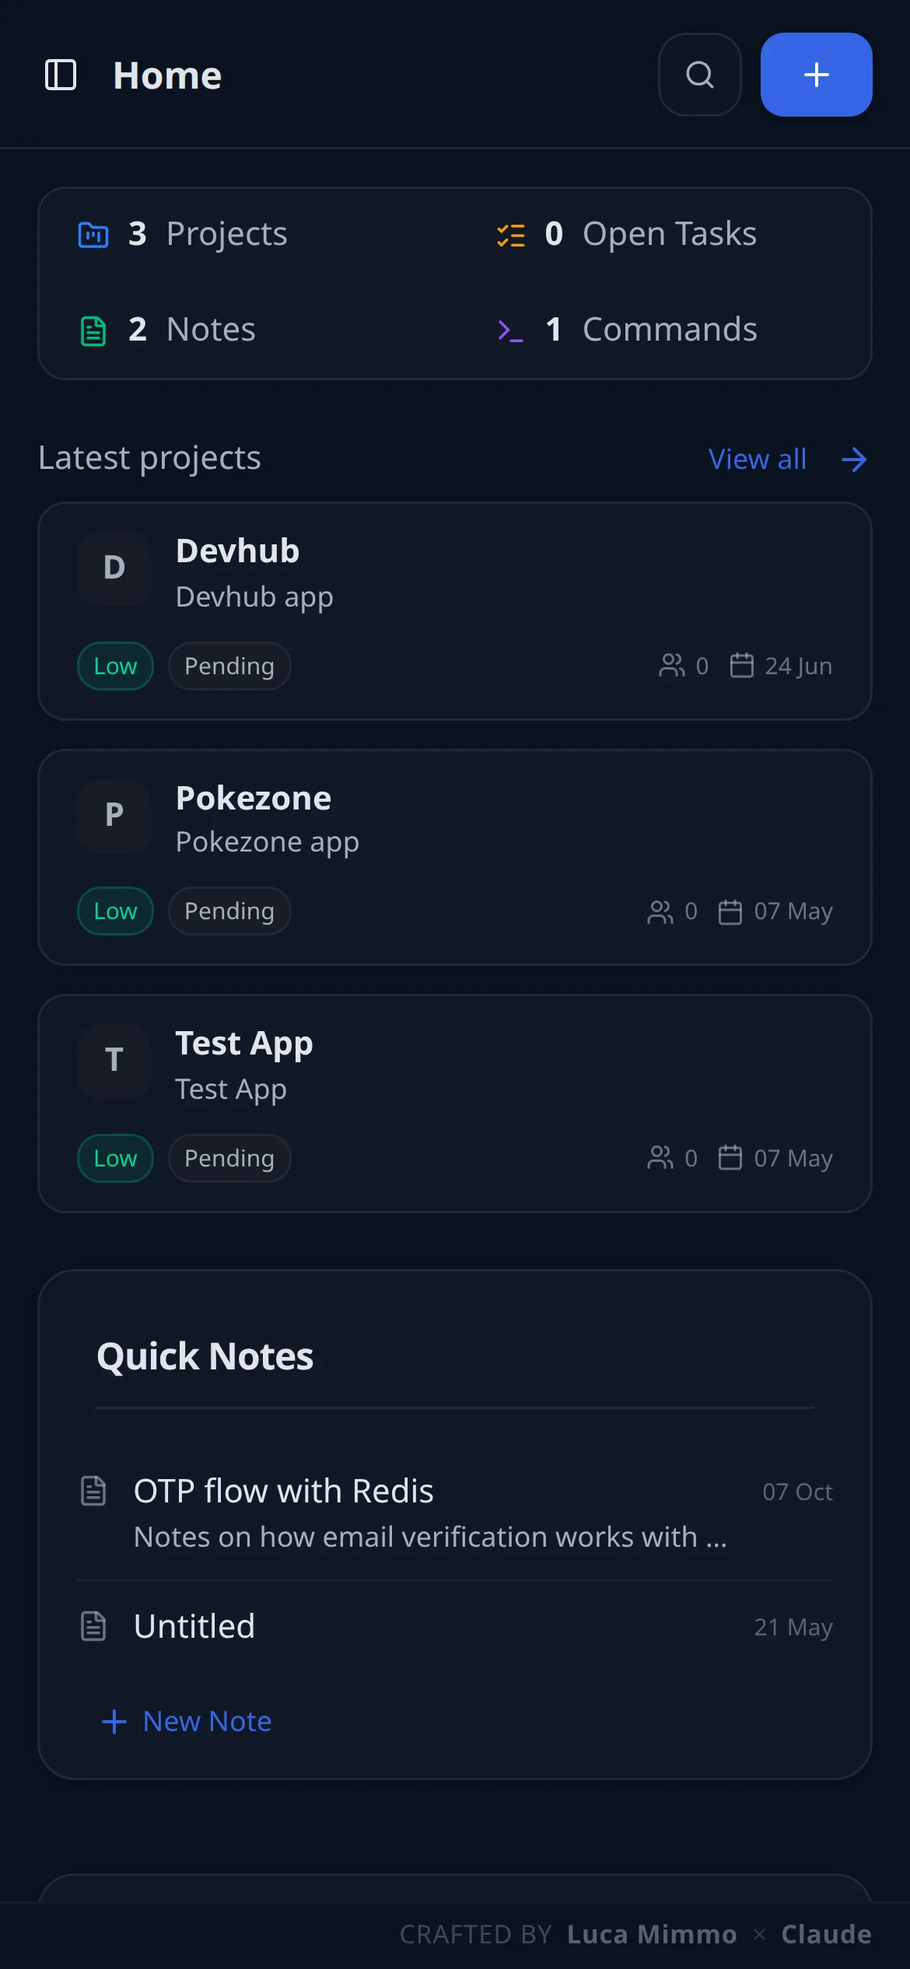
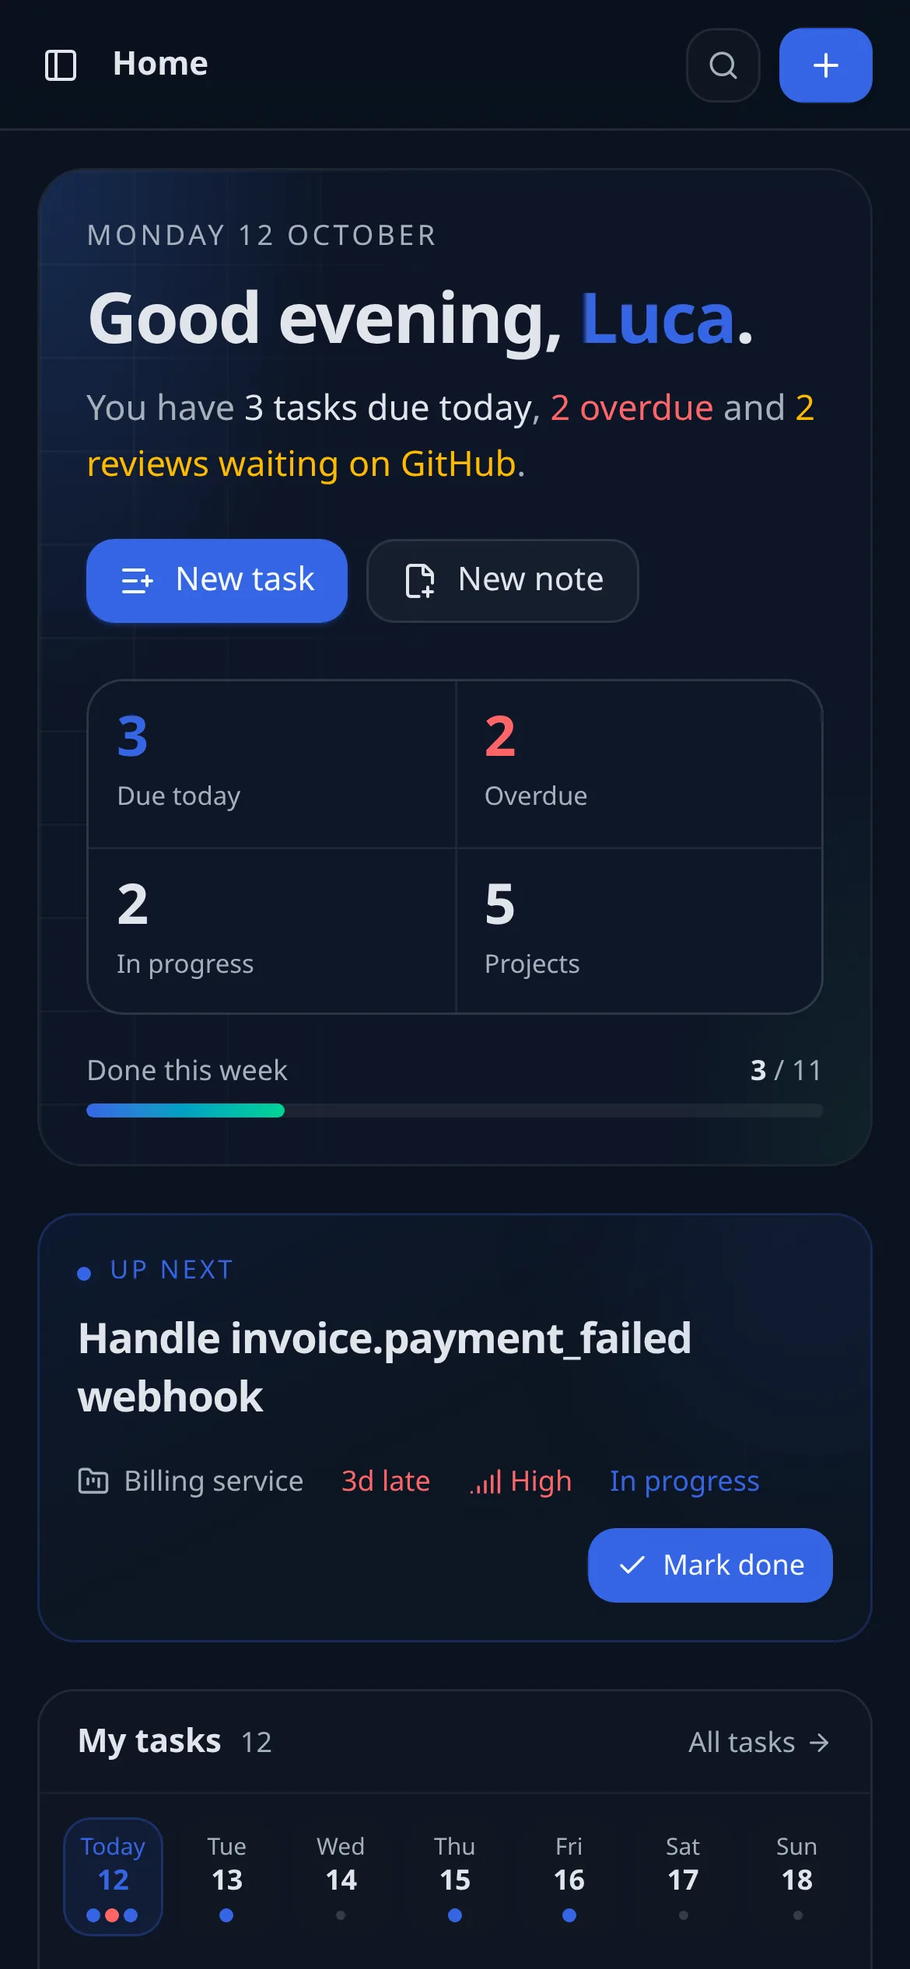
chore(devhub): refresh case study screenshots and copy
- New screenshots of the redesigned UI (mock data): home, note editor,
  command palette, tablet/mobile, plus GitHub overview, repository page,
  projects list, project detail and sign-up
- Gallery reordered around the new features
- Copy (EN + IT): today-first home, GitHub integration with review inbox,
  projects health/overview, rebuilt sign-in; backend details corrected
  (OTP codes in PostgreSQL, rotating refresh cookie; Redis no longer used)
- Cover and OG stat strip mirror the new home summary

diff --git a/lib/translations.ts b/lib/translations.ts
@@ -38,27 +38,32 @@ export const translations = {
     projects: {
       devhub: {
         status: "In Progress",
-        desc: "Full-stack developer dashboard: projects, tasks, markdown notes, CLI snippets, command palette. React 19 + Vite frontend, Quarkus REST API, PostgreSQL, Redis.",
-        overview: "DevHub is my personal developer dashboard: projects, tasks, markdown notes and the CLI commands I use every day, all in one place. The frontend is React 19 + Vite on Vercel; the backend is a Quarkus 3 REST API on Java 21 with PostgreSQL, Redis and JWT authentication.",
-        context: "I've always wanted a personal dashboard to keep my software projects under control. DevHub started from that need and became my training ground for going deeper into React. This is the second version, rewritten from scratch.",
+        desc: "Full-stack developer dashboard: today's tasks, projects, markdown notes, CLI snippets and a GitHub integration with a review inbox. React 19 + TypeScript frontend, Quarkus REST API, PostgreSQL.",
+        overview: "DevHub is my personal developer dashboard: projects, tasks, markdown notes, the CLI commands I use every day and my GitHub activity, all in one place. The home page is built around today's work: what's due, what's late and which pull requests are waiting for my review. The frontend is React 19 + TypeScript with Vite, Tailwind and TanStack Query, deployed on Vercel; the backend is a Quarkus 3 REST API on Java 21 with PostgreSQL, JWT authentication and the GitHub REST and GraphQL APIs.",
+        context: "I've always wanted a personal dashboard to keep my software projects under control. DevHub started from that need and became my training ground for going deeper into React. This is the second version, rewritten from scratch, and it keeps growing: the latest round added the GitHub integration and redesigned the home page, the projects page and the sign-in flow.",
         role: "Solo project: I built everything, from API design and the UI to deploying frontend and backend.",
         story: [
-          { title: "OTP codes with Redis", body: "The hardest part. Sign-up and password reset go through a one-time code sent by email. I used Redis as a temporary store: each OTP is saved with the email as its key and a 5-minute expiry, so a new code replaces the previous one and old codes disappear on their own: no extra tables, no cleanup jobs. It forced me to really understand how a key-value cache works and to handle the edge cases: expired codes, resends, different emails." },
-          { title: "Secure sessions with JWT", body: "RS256-signed access and refresh tokens travel in HttpOnly cookies, out of reach of JavaScript. The refresh token rotates on every renewal and is stored in PostgreSQL, and a nightly scheduled job deletes expired ones. On the frontend, an Axios interceptor catches 401 responses and sends the user back to login when the session is no longer valid." },
-          { title: "A backend organised by domain", body: "The Quarkus code is split by domain (auth, projects, tasks, notes, commands, users), each with its own controllers, DTOs and services, plus a shared layer for base entities, enums and centralised error handling. Adding a new resource means adding a module, not touching everything else." },
-          { title: "What I learned", body: "Beyond React, DevHub taught me to think about a whole application: designing the API before the UI, handling authentication safely, and running two separate services in production that talk to each other." },
+          { title: "GitHub inside the dashboard", body: "The biggest addition. You can connect a GitHub account with OAuth, or sign in and sign up with it directly. The OAuth state is HMAC-signed, so the callback only completes the flow that started it, and the GitHub token is stored encrypted with AES-256-GCM. A single GraphQL query builds the inbox: review requests, my pull requests with review and CI state, and assigned issues, which can be imported as tasks. Everything else (repositories, README, Actions runs, releases) goes through the REST API, with responses cached for a minute so moving between pages doesn't eat into the rate limit." },
+          { title: "A home page built around today", body: "The first version showed counters. The new one tells me what to work on: a one-line summary of the day (due today, overdue, reviews waiting), the next task with Start and Mark done, a 7-day strip, tasks grouped by urgency and completable inline, each project's progress and next deadline, recent notes and saved commands I can copy in one click. All data goes through TanStack Query with one cache per resource, so moving between pages doesn't refetch what I've just seen." },
+          { title: "Sign-in, rebuilt", body: "Sign-up and password reset go through a 6-digit code sent by email. On the backend the code is stored hashed with bcrypt in PostgreSQL, one per email and purpose, with a 5-minute expiry and a scheduled cleanup. Sessions use a JWT access token plus a refresh token in an HttpOnly cookie that rotates on every renewal. On the frontend: a split screen with a product preview, inline validation that mirrors the backend rules, a password strength meter, a six-box code input that accepts paste and submits on its own, an expiry countdown with a resend cooldown, and step indicators for verification and reset." },
+          { title: "What I learned", body: "Beyond React, DevHub taught me to think about a whole application: designing the API before the UI, handling authentication and third-party tokens safely, working within another service's API limits, and running two separate services in production that talk to each other." },
         ],
         highlights: [
-          { label: "Auth with OTP", description: "Email sign-up and login with OTP verification over Gmail SMTP. Codes stored in Redis with a 5-minute expiry, RS256 JWTs in HttpOnly cookies, and a full password reset flow." },
-          { label: "Project & task management", description: "Projects with priority, status, due date and members. Tasks scoped per project, with filters and live stats on the dashboard." },
-          { label: "Markdown notes & CLI snippets", description: "Markdown editor with live preview and auto-save (1 s debounce). CLI command library grouped by category (Bash, Git, Docker, SQL, NPM) with one-click copy." },
-          { label: "Command palette", description: "Global Ctrl+K command palette for instant navigation across the entire dashboard without touching the mouse." },
+          { label: "Today-first home page", description: "Greeting with a summary of the day, quick actions, an “Up next” focus task, a 7-day strip, tasks grouped by urgency, project progress and deadlines, a GitHub widget, recent notes and one-click copy of saved commands." },
+          { label: "GitHub integration", description: "Review inbox, your pull requests with review state, CI status and +/− lines, assigned issues you can import as tasks. Contribution graph with yearly totals and top repositories, activity feed, a repositories table to link repos to projects, and a repo page with README, Actions runs, releases, contributors, weekly activity, issues, PRs and commits." },
+          { label: "Projects & tasks", description: "Card and list views with an overview of key numbers and a 60-day deadline runway, per-project colours, a computed health status (On track, At risk, Overdue), progress and late tasks, sorting and Active / Completed / Archived tabs. Project pages edit inline, with team members and the linked repo. Tasks come from a single-screen composer (Ctrl/Cmd+Enter, “create another”) and are completed inline." },
+          { label: "Markdown notes & CLI snippets", description: "Markdown editor that formats as you type, an emoji per note and autosave. CLI command library grouped by category (Bash, Git, Docker, SQL, NPM) with one-click copy." },
+          { label: "Command palette", description: "Global Ctrl+K palette to search projects, tasks, notes and commands, or run actions like creating a task, without touching the mouse." },
         ],
         gallery: [
-          "DevHub dashboard: stats bar, latest projects, quick notes and recent tasks",
-          "A markdown note documenting the OTP flow with Redis",
-          "Ctrl+K command palette to search projects, tasks, notes and commands",
-          "Projects view with priority, status and due date",
+          "DevHub home: summary of the day, next task, 7-day strip, tasks by urgency, projects and GitHub",
+          "A markdown note in the editor, with its emoji and formatting toolbar",
+          "GitHub overview: contribution graph, top repositories, review inbox and projects linked to repos",
+          "Repository page: README, GitHub Actions runs, commit activity and latest release",
+          "Projects: key numbers, deadline runway and cards with health status and progress",
+          "Project page with tasks, progress, team and the linked GitHub repository",
+          "Ctrl+K command palette searching tasks and projects",
+          "Sign-up with GitHub or email, inline validation and password strength meter",
         ],
       },
       pokemon: {
@@ -254,27 +259,32 @@ export const translations = {
     projects: {
       devhub: {
         status: "In Sviluppo",
-        desc: "Dashboard full-stack per sviluppatori: progetti, task, note markdown, snippet CLI, command palette. React 19 + Vite, Quarkus REST API, PostgreSQL, Redis.",
-        overview: "DevHub è la mia dashboard personale da sviluppatore: progetti, task, note in markdown e i comandi CLI che uso ogni giorno, tutto in un unico posto. Il frontend è in React 19 + Vite su Vercel; il backend è un'API REST in Quarkus 3 su Java 21 con PostgreSQL, Redis e autenticazione JWT.",
-        context: "Mi è sempre piaciuto avere una dashboard personale per tenere sotto controllo i miei progetti informatici. DevHub nasce da questa esigenza ed è diventato anche il mio banco di prova per approfondire React. Questa è la seconda versione, riscritta da zero.",
+        desc: "Dashboard full-stack per sviluppatori: task del giorno, progetti, note markdown, snippet CLI e un'integrazione GitHub con le review da fare. Frontend React 19 + TypeScript, API REST Quarkus, PostgreSQL.",
+        overview: "DevHub è la mia dashboard personale da sviluppatore: progetti, task, note in markdown, i comandi CLI che uso ogni giorno e la mia attività su GitHub, tutto in un unico posto. La home è costruita attorno al lavoro di oggi: cosa scade, cosa è in ritardo e quali pull request aspettano la mia review. Il frontend è in React 19 + TypeScript con Vite, Tailwind e TanStack Query, su Vercel; il backend è un'API REST in Quarkus 3 su Java 21 con PostgreSQL, autenticazione JWT e le API REST e GraphQL di GitHub.",
+        context: "Mi è sempre piaciuto avere una dashboard personale per tenere sotto controllo i miei progetti informatici. DevHub nasce da questa esigenza ed è diventato anche il mio banco di prova per approfondire React. Questa è la seconda versione, riscritta da zero, e continua a crescere: l'ultimo giro ha aggiunto l'integrazione con GitHub e ridisegnato la home, la pagina dei progetti e l'accesso.",
         role: "Progetto personale: ho curato tutto, dal design delle API alla UI, fino al deploy di frontend e backend.",
         story: [
-          { title: "Codici OTP con Redis", body: "La parte più complessa. Registrazione e reset della password passano da un codice monouso inviato via email. Ho usato Redis come archivio temporaneo: ogni OTP è salvato con l'email come chiave e una scadenza di 5 minuti, così un nuovo codice sostituisce il precedente e quelli vecchi spariscono da soli, senza tabelle aggiuntive né job di pulizia. Mi ha costretto a capire davvero come funziona una cache chiave-valore e a gestire i casi limite: codici scaduti, reinvii, email diverse." },
-          { title: "Sessioni sicure con JWT", body: "Access token e refresh token firmati RS256 viaggiano in cookie HttpOnly, fuori dalla portata di JavaScript. Il refresh token ruota a ogni rinnovo ed è salvato su PostgreSQL, e un job pianificato ogni notte elimina quelli scaduti. Lato frontend, un interceptor Axios intercetta le risposte 401 e riporta l'utente al login quando la sessione non è più valida." },
-          { title: "Un backend organizzato per dominio", body: "Il codice Quarkus è diviso per dominio (autenticazione, progetti, task, note, comandi, utenti), ognuno con controller, DTO e servizi propri, più un livello comune per entità base, enum e gestione centralizzata degli errori. Aggiungere una nuova risorsa significa aggiungere un modulo, non toccare tutto il resto." },
-          { title: "Cosa ho imparato", body: "Oltre a React, DevHub mi ha insegnato a pensare a un'applicazione intera: progettare le API prima della UI, gestire l'autenticazione in modo sicuro e mettere in produzione due servizi separati che comunicano tra loro." },
+          { title: "GitHub dentro la dashboard", body: "L'aggiunta più grande. Si può collegare un account GitHub con OAuth, oppure accedere e registrarsi direttamente con GitHub. Lo state OAuth è firmato con HMAC, così il callback completa solo il flusso che l'ha avviato, e il token GitHub è salvato cifrato con AES-256-GCM. Una sola query GraphQL costruisce la inbox: richieste di review, le mie pull request con stato della review e della CI, e le issue assegnate, che si possono importare come task. Il resto (repository, README, run di Actions, release) passa dall'API REST, con le risposte in cache per un minuto per non consumare il rate limit passando da una pagina all'altra." },
+          { title: "Una home costruita attorno a oggi", body: "La prima versione mostrava dei contatori. La nuova mi dice su cosa lavorare: una riga di riepilogo della giornata (in scadenza oggi, in ritardo, review in attesa), il prossimo task con Inizia e Segna come fatto, una striscia dei prossimi 7 giorni, i task raggruppati per urgenza e completabili al volo, avanzamento e scadenza di ogni progetto, le note recenti e i comandi salvati da copiare in un clic. Tutti i dati passano da TanStack Query con una cache per risorsa, così cambiando pagina non si riscarica ciò che ho appena visto." },
+          { title: "L'accesso, rifatto", body: "Registrazione e reset della password passano da un codice di 6 cifre inviato via email. Lato backend il codice è salvato con hash bcrypt su PostgreSQL, uno per email e scopo, con scadenza di 5 minuti e una pulizia pianificata. Le sessioni usano un access token JWT più un refresh token in un cookie HttpOnly che ruota a ogni rinnovo. Lato frontend: schermata divisa con un'anteprima del prodotto, validazione in linea con le stesse regole del backend, indicatore di robustezza della password, un input a sei caselle che accetta l'incolla e si invia da solo, conto alla rovescia della scadenza con attesa prima del reinvio, e indicatori di passaggio per verifica e reset." },
+          { title: "Cosa ho imparato", body: "Oltre a React, DevHub mi ha insegnato a pensare a un'applicazione intera: progettare le API prima della UI, gestire in modo sicuro l'autenticazione e i token di servizi esterni, lavorare dentro i limiti delle API di un altro servizio e mettere in produzione due servizi separati che comunicano tra loro." },
         ],
         highlights: [
-          { label: "Auth con OTP", description: "Registrazione e login via email con verifica OTP tramite Gmail SMTP. Codici salvati in Redis con scadenza di 5 minuti, JWT RS256 in cookie HttpOnly e flusso completo di reset della password." },
-          { label: "Gestione progetti e task", description: "Progetti con priorità, stato, scadenza e membri. Task organizzati per progetto, con filtri e statistiche in tempo reale nella dashboard." },
-          { label: "Note markdown e snippet CLI", description: "Editor markdown con anteprima live e salvataggio automatico (debounce di 1 secondo). Archivio di comandi CLI per categoria (Bash, Git, Docker, SQL, NPM) con copia in un clic." },
-          { label: "Command palette", description: "Command palette globale Ctrl+K per navigare istantaneamente in tutta la dashboard senza toccare il mouse." },
+          { label: "Home centrata su oggi", description: "Saluto con il riepilogo della giornata, azioni rapide, un task in evidenza (“Up next”), la striscia dei 7 giorni, i task raggruppati per urgenza, avanzamento e scadenze dei progetti, un widget GitHub, le note recenti e la copia in un clic dei comandi salvati." },
+          { label: "Integrazione con GitHub", description: "Inbox delle review, le tue pull request con stato della review, della CI e righe +/−, issue assegnate da importare come task. Grafico dei contributi con totali annuali e repository principali, feed delle attività, una tabella dei repository per collegarli ai progetti e una pagina per repository con README, run di Actions, release, contributor, attività settimanale, issue, PR e commit." },
+          { label: "Progetti e task", description: "Vista a schede e a lista con un riepilogo dei numeri chiave e le scadenze dei prossimi 60 giorni, un colore per progetto, uno stato di salute calcolato (In linea, A rischio, In ritardo), avanzamento e task in ritardo, ordinamento e schede Attivi / Completati / Archiviati. La pagina di un progetto si modifica in linea, con membri del team e repository collegato. I task nascono da un composer in un'unica schermata (Ctrl/Cmd+Invio, “crea un altro”) e si completano al volo." },
+          { label: "Note markdown e snippet CLI", description: "Editor markdown che formatta mentre scrivi, un'emoji per ogni nota e salvataggio automatico. Archivio di comandi CLI per categoria (Bash, Git, Docker, SQL, NPM) con copia in un clic." },
+          { label: "Command palette", description: "Command palette globale Ctrl+K per cercare progetti, task, note e comandi, o eseguire azioni come creare un task, senza toccare il mouse." },
         ],
         gallery: [
-          "Dashboard di DevHub: statistiche, ultimi progetti, note rapide e task recenti",
-          "Una nota in markdown che documenta il flusso OTP con Redis",
-          "Command palette Ctrl+K per cercare progetti, task, note e comandi",
-          "Vista progetti con priorità, stato e scadenza",
+          "Home di DevHub: riepilogo della giornata, prossimo task, striscia dei 7 giorni, task per urgenza, progetti e GitHub",
+          "Una nota markdown nell'editor, con la sua emoji e la barra di formattazione",
+          "Panoramica GitHub: grafico dei contributi, repository principali, inbox delle review e progetti collegati ai repository",
+          "Pagina di un repository: README, run di GitHub Actions, attività dei commit e ultima release",
+          "Progetti: numeri chiave, scadenze in arrivo e schede con stato di salute e avanzamento",
+          "Pagina di un progetto con task, avanzamento, team e repository GitHub collegato",
+          "Command palette Ctrl+K che cerca tra task e progetti",
+          "Registrazione con GitHub o email, validazione in linea e indicatore di robustezza della password",
         ],
       },
       pokemon: {

diff --git a/data/projects.ts b/data/projects.ts
@@ -48,7 +48,7 @@ export const projects: Project[] = [
     num: "02",
     title: "DevHub",
     year: "2025",
-    tags: ["React", "Vite", "TypeScript", "Quarkus", "Java", "PostgreSQL", "Redis"],
+    tags: ["React", "TypeScript", "Vite", "TanStack Query", "Quarkus", "Java", "PostgreSQL", "GitHub API"],
     links: [
       { label: "GitHub FE", href: "https://github.com/LucaMimmo05/devhub-fe" },
       { label: "GitHub BE", href: "https://github.com/LucaMimmo05/devhub-be" },
@@ -57,8 +57,12 @@ export const projects: Project[] = [
     images: [
       { src: "/work/devhub/dashboard-16x10.webp", width: 4320, height: 2700 },
       { src: "/work/devhub/note-16x10.webp", width: 2520, height: 1575 },
+      { src: "/work/devhub/github-16x10.webp", width: 4320, height: 2700 },
+      { src: "/work/devhub/repo-16x10.webp", width: 4320, height: 2700 },
+      { src: "/work/devhub/projects-list-16x10.webp", width: 4320, height: 2700 },
+      { src: "/work/devhub/project-detail-16x10.webp", width: 4320, height: 2700 },
       { src: "/work/devhub/palette-16x10.webp", width: 2040, height: 1275 },
-      { src: "/work/devhub/projects-16x10.webp", width: 3360, height: 2100 },
+      { src: "/work/devhub/auth-16x10.webp", width: 4320, height: 2700 },
     ],
     devices: {
       desktop: { src: "/work/devhub/dashboard-16x10.webp", width: 4320, height: 2700 },

diff --git a/components/ProjectCover.tsx b/components/ProjectCover.tsx
@@ -27,12 +27,13 @@ export default function ProjectCover({ projectKey, title, lang = "it", variant =
   }
 
   if (projectKey === "devhub") {
-    // DevHub's own palette: app background #121924, cards #171f2b, blue accent #3B82F6
+    // DevHub's own palette: app background #121924, cards #171f2b, blue accent #3B82F6.
+    // The stats mirror the summary on DevHub's home page.
     const stats = [
-      { n: 3, label: "Projects", color: "#3B82F6", d: "M3 7h6l2 2h10v10H3z" },
-      { n: 5, label: "Open Tasks", color: "#F59E0B", d: "M4 6h3M4 12h3M4 18h3M10 6h10M10 12h10M10 18h10" },
-      { n: 2, label: "Notes", color: "#22C55E", d: "M6 3h9l4 4v14H6zM9 12h6M9 16h6" },
-      { n: 4, label: "Commands", color: "#A855F7", d: "M4 17l6-5-6-5M12 19h8" },
+      { n: 3, label: "Due today", color: "#3B82F6", d: "M4 6h16v14H4zM4 10h16M9 3v4M15 3v4" },
+      { n: 2, label: "Overdue", color: "#EF4444", d: "M12 3a9 9 0 1 0 0 18 9 9 0 0 0 0-18zM12 7v5l3 2" },
+      { n: 2, label: "In progress", color: "#F59E0B", d: "M3 12h4l3-7 4 14 3-7h4" },
+      { n: 5, label: "Projects", color: "#A855F7", d: "M3 7h6l2 2h10v10H3z" },
     ];
     return (
       <div className={base} style={{ background: "#121924" }}>

diff --git a/lib/og.tsx b/lib/og.tsx
@@ -103,10 +103,10 @@ export async function renderCaseStudyOg({ projectKey, lang, label, path }: {
   if (projectKey === "devhub") {
     const logo = await dataUri("devhub-logo.svg", "image/svg+xml");
     const stats = [
-      ["3", "Projects", "#3B82F6"],
-      ["5", "Open Tasks", "#F59E0B"],
-      ["2", "Notes", "#22C55E"],
-      ["4", "Commands", "#A855F7"],
+      ["3", "Due today", "#3B82F6"],
+      ["2", "Overdue", "#EF4444"],
+      ["2", "In progress", "#F59E0B"],
+      ["5", "Projects", "#A855F7"],
     ];
     body = (
       <div style={{ width: "100%", height: "100%", display: "flex", flexDirection: "column", alignItems: "center", justifyContent: "center", gap: 56, background: "#121924", paddingBottom: 74 }}>
